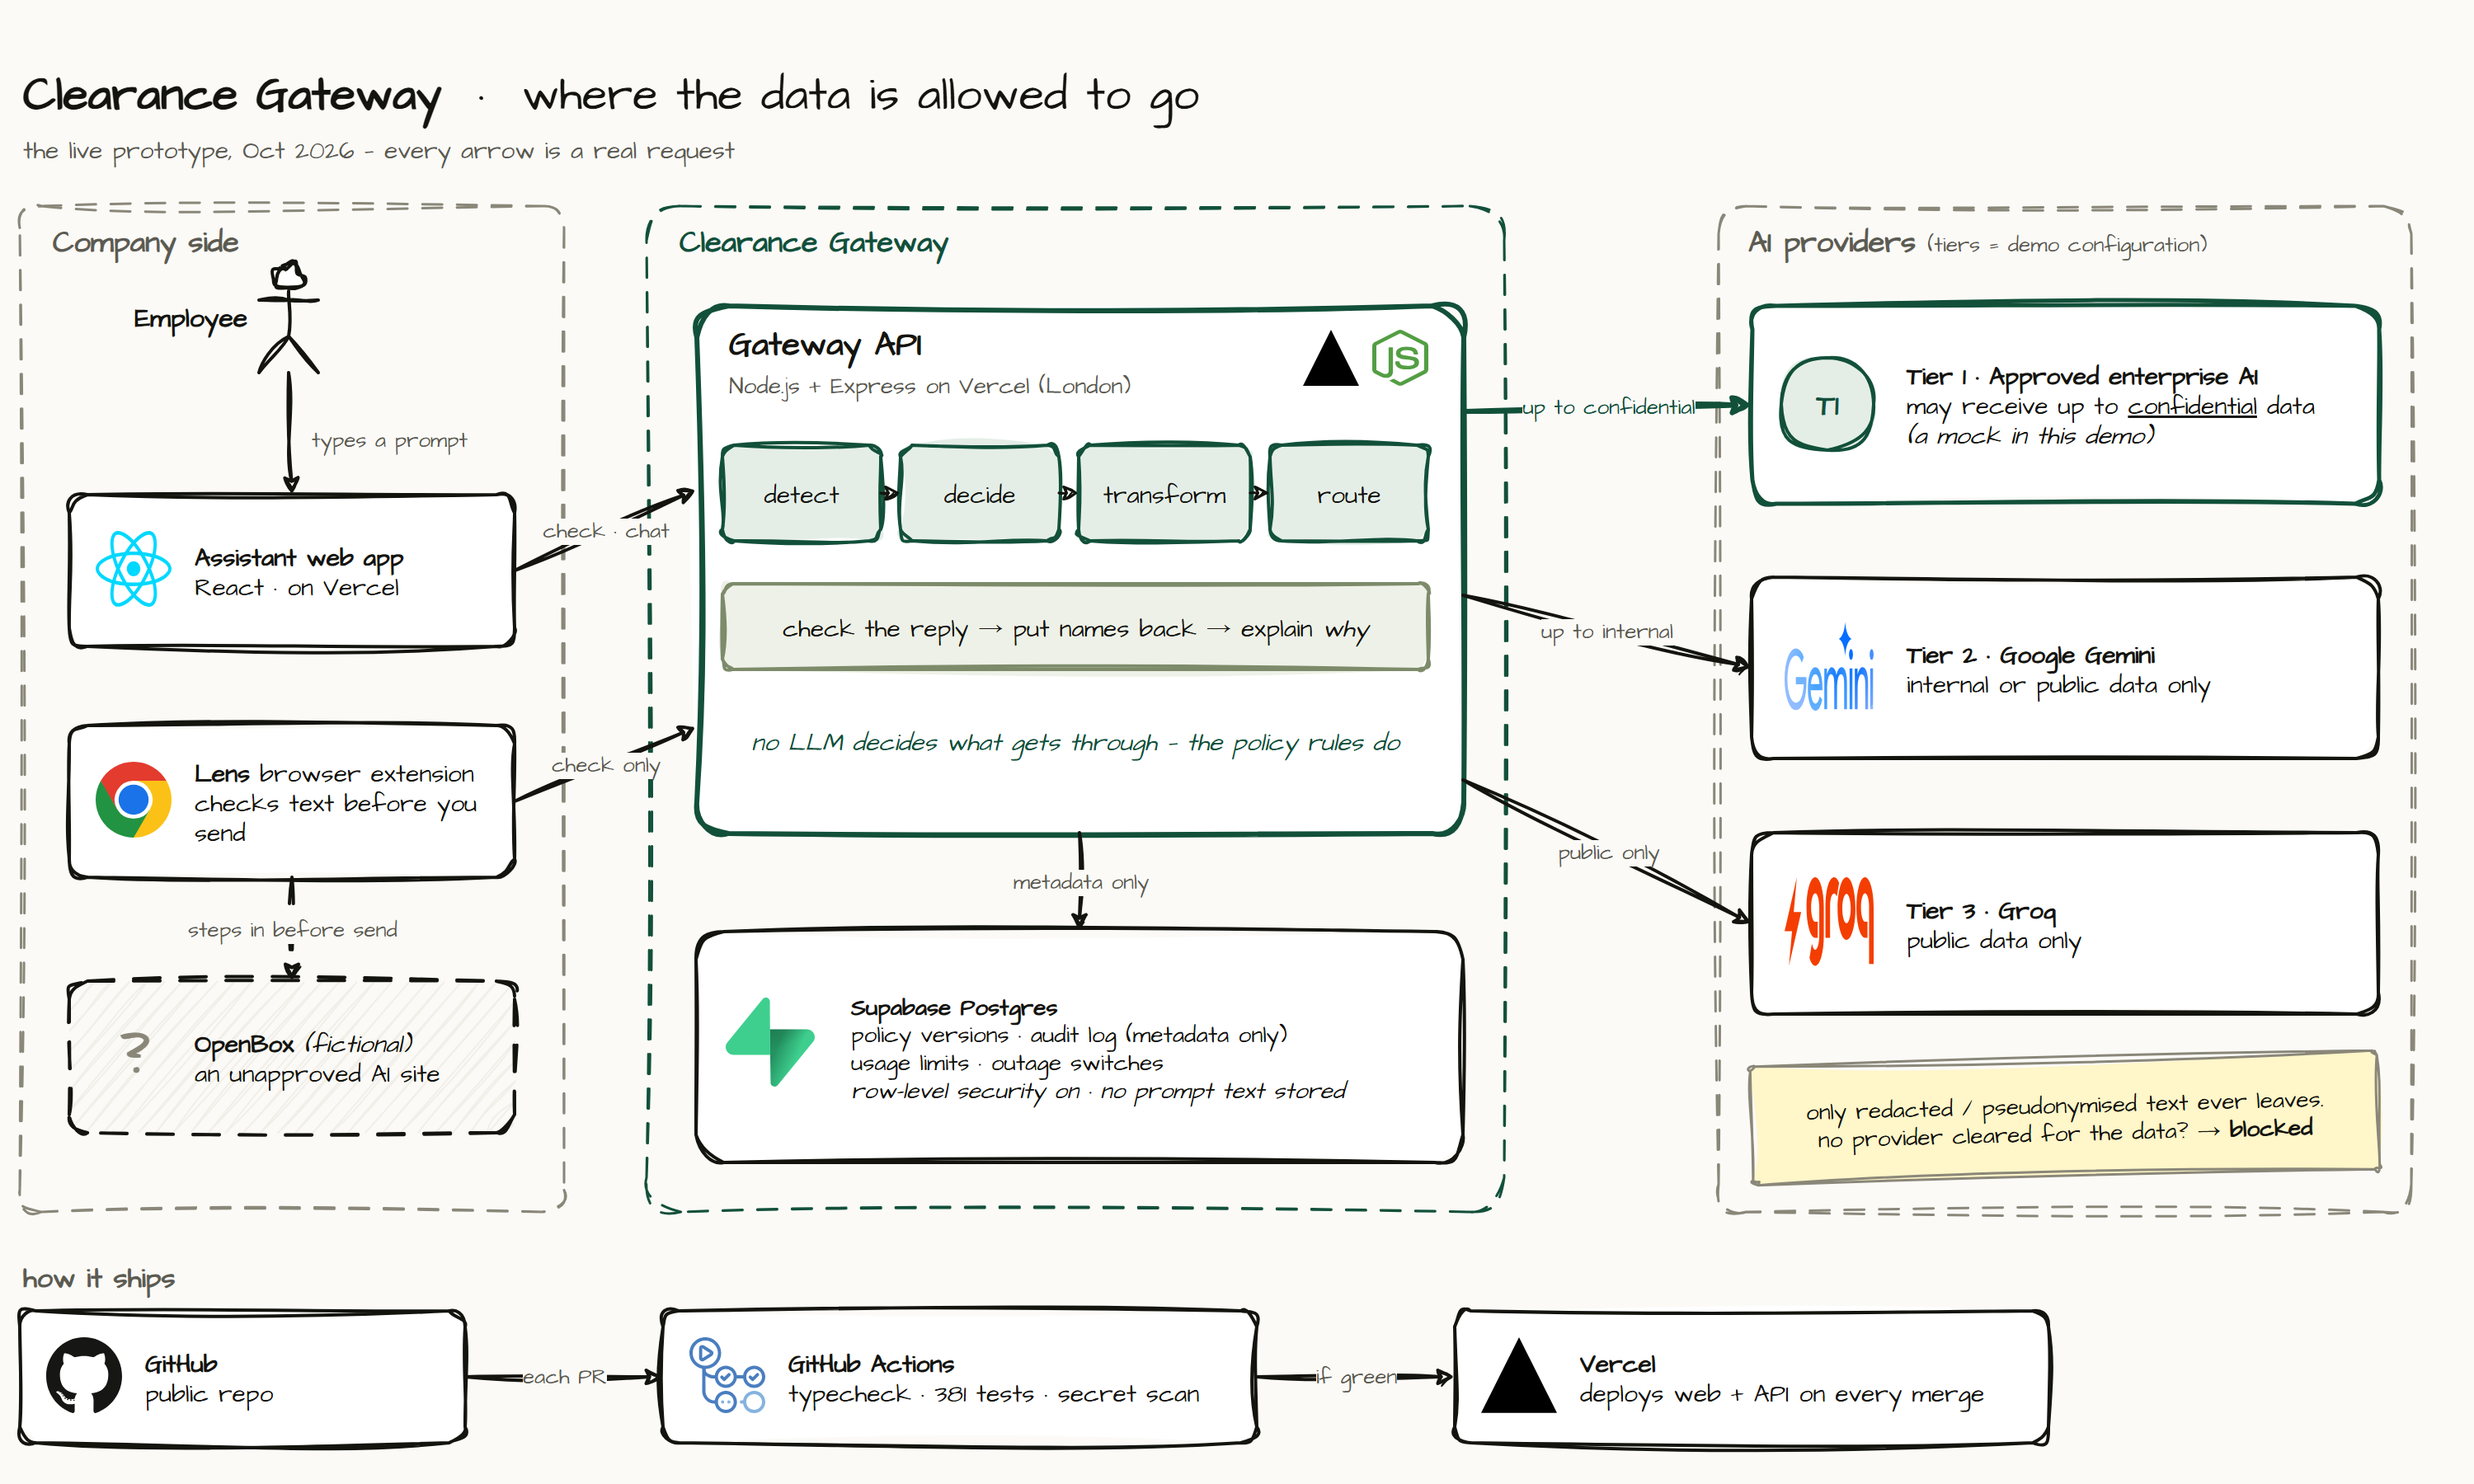
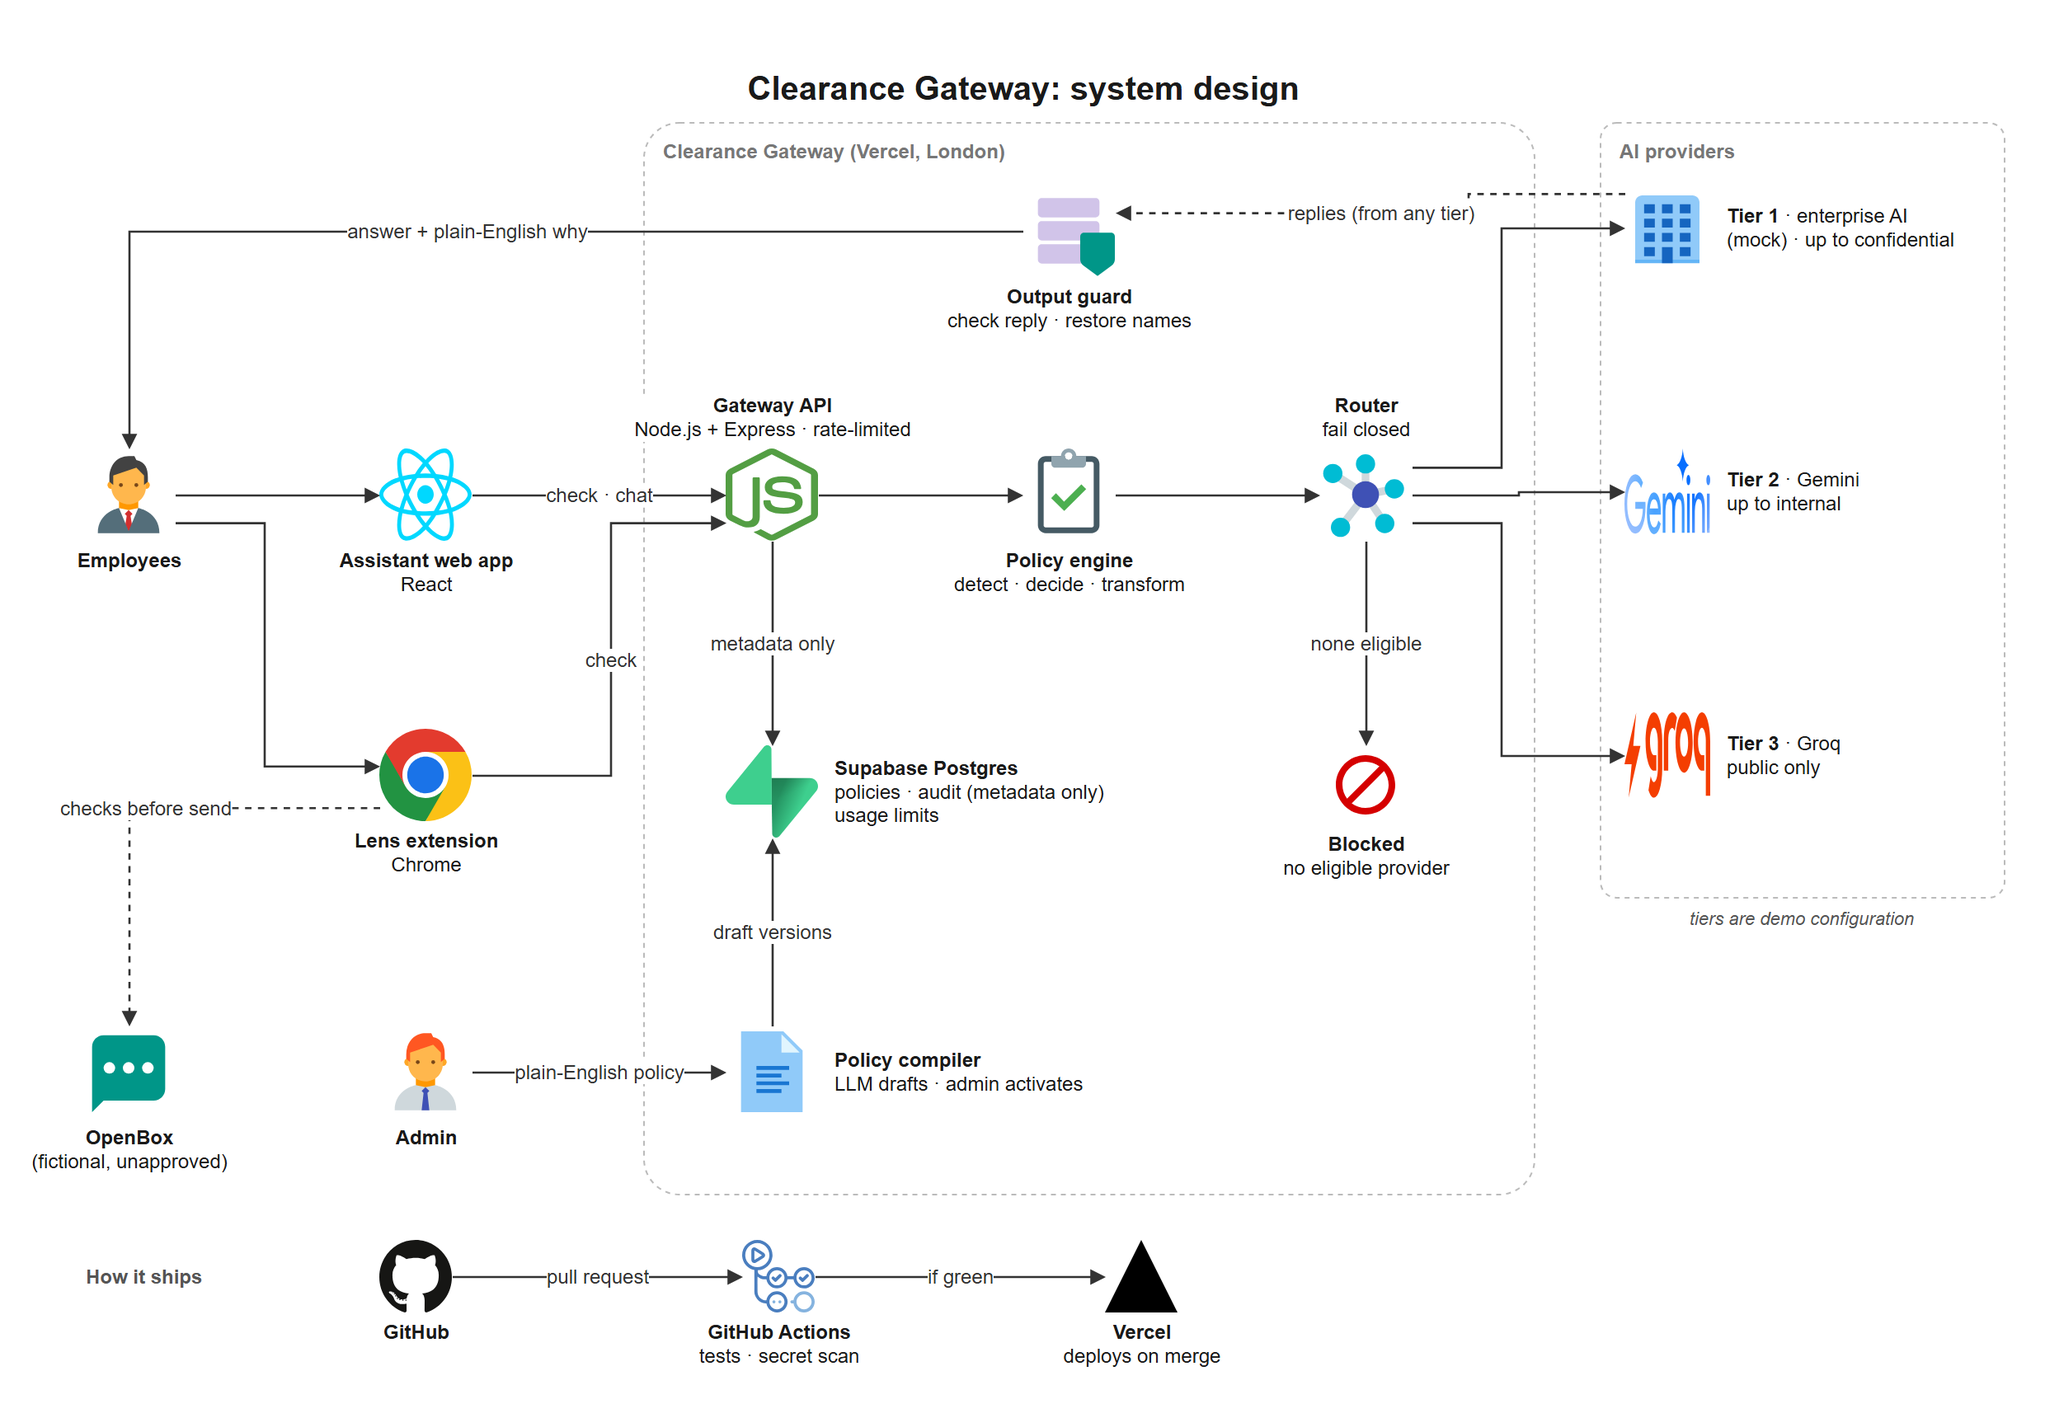
docs: restyle diagrams as plain draw.io flowcharts and system design, with open-in-draw.io links

diff --git a/docs/diagrams/README.md b/docs/diagrams/README.md
@@ -1,12 +1,12 @@
 # Diagrams
 
-Hand-drawn-style diagrams (draw.io "sketch" style, Architects Daughter font, FinMe colours). Open any `.drawio` file at https://app.diagrams.net (File → Open from → Device) or in the draw.io desktop app to edit it. The PNGs are exports at 2× scale.
+Plain, standard diagrams made with [draw.io](https://www.drawio.com). Click **Edit** to open one in the draw.io editor straight from this repository, or **View** for a read-only page. The `.drawio` files in this folder can also be opened with File → Open from → Device. The PNGs are 2× exports.
 
-| File | Shows |
-|---|---|
-| `architecture.drawio` / `.png` | The parts of the live prototype and where data is allowed to go |
-| `prompt-flow.drawio` / `.png` | What happens to one prompt, from Send to answer (no LLM in the path) |
-| `policy-lifecycle.drawio` / `.png` | How a plain-English policy becomes live rules, with the human review and the policy floor |
-| *(Collins)* system map | The problem's causal loops: Collins's own analysis, to be added |
+| Diagram | What it shows | Open | PNG |
+|---|---|---|---|
+| `architecture` | System design: the parts of the live prototype and where data is allowed to go | [Edit](https://app.diagrams.net/#Uhttps%3A%2F%2Fraw.githubusercontent.com%2Fshibambocollins%2Fclearance-gateway%2Fmain%2Fdocs%2Fdiagrams%2Farchitecture.drawio) · [View](https://viewer.diagrams.net/?url=https%3A%2F%2Fraw.githubusercontent.com%2Fshibambocollins%2Fclearance-gateway%2Fmain%2Fdocs%2Fdiagrams%2Farchitecture.drawio) | [architecture.png](architecture.png) |
+| `prompt-flow` | Flowchart: what happens to one prompt, from Send to answer (no LLM in the path) | [Edit](https://app.diagrams.net/#Uhttps%3A%2F%2Fraw.githubusercontent.com%2Fshibambocollins%2Fclearance-gateway%2Fmain%2Fdocs%2Fdiagrams%2Fprompt-flow.drawio) · [View](https://viewer.diagrams.net/?url=https%3A%2F%2Fraw.githubusercontent.com%2Fshibambocollins%2Fclearance-gateway%2Fmain%2Fdocs%2Fdiagrams%2Fprompt-flow.drawio) | [prompt-flow.png](prompt-flow.png) |
+| `policy-lifecycle` | Flowchart: how a plain-English policy becomes live rules, with human review and the policy floor | [Edit](https://app.diagrams.net/#Uhttps%3A%2F%2Fraw.githubusercontent.com%2Fshibambocollins%2Fclearance-gateway%2Fmain%2Fdocs%2Fdiagrams%2Fpolicy-lifecycle.drawio) · [View](https://viewer.diagrams.net/?url=https%3A%2F%2Fraw.githubusercontent.com%2Fshibambocollins%2Fclearance-gateway%2Fmain%2Fdocs%2Fdiagrams%2Fpolicy-lifecycle.drawio) | [policy-lifecycle.png](policy-lifecycle.png) |
+| *(Collins)* system map | The problem's causal loops: Collins's own analysis, to be added | | |
 
-Service logos come from the [SVG Logos](https://github.com/gilbarbara/logos) collection (CC0) via [Iconify](https://iconify.design). Trademarks belong to their owners. They identify the services the prototype uses and imply no endorsement. The approved enterprise provider is a mock and OpenBox is fictional, so neither has a logo. Provider tiers are demo configuration, not claims about any vendor's data handling.
+Service logos come from the [SVG Logos](https://github.com/gilbarbara/logos) collection (CC0). Generic icons come from [Flat Color Icons](https://github.com/icons8/flat-color-icons) (MIT). Both are via [Iconify](https://iconify.design). Trademarks belong to their owners; they identify the services the prototype uses and imply no endorsement. The approved enterprise provider is a mock and OpenBox is fictional, so neither has a vendor logo. Provider tiers are demo configuration, not claims about any vendor's data handling.

diff --git a/docs/decisions.md b/docs/decisions.md
@@ -67,3 +67,4 @@ Every non-trivial technical choice: the decision, the alternatives, why, and who
 | D-061 | 2026-10-29 | **Policy floor:** `POST /api/policy/:id/activate` refuses (409) any version whose decision diff against the seed baseline has a looser cell, a lowered level or a removed term. Stricter versions activate normally. On by default; `POLICY_FLOOR=off` disables it. | Rely on admin review only. | The demo admin code is public, so anyone could otherwise activate an "allow everything" policy and silently switch protection off for every visitor. A floor that admins can tighten but never undercut is also a useful production idea (e.g. a regulator- or CISO-set minimum). | Claude Code |
 | D-062 | 2026-10-29 | Security hardening from the review (`docs/security.md`): API headers (`Cache-Control: no-store`, `nosniff`, `X-Frame-Options: DENY`, `Referrer-Policy: no-referrer`, `CSP: default-src 'none'`); web headers in `apps/web/vercel.json` (CSP with scripts from self only, HSTS, `nosniff`, `DENY`, `Referrer-Policy`, `Permissions-Policy`); the policy compiler gets its own budget of 10 per visitor per day and 100 in total, failing closed. | helmet (extra dependency); no compile limit. | Responses can contain the redacted text a user is about to send, so they must not be cached. The compile endpoint spends real LLM quota behind a public admin code. | Claude Code |
 | D-063 | 2026-10-29 | Three technical diagrams (architecture, prompt flow, policy lifecycle) as editable `.drawio` files plus 2× PNG exports in `docs/diagrams/`. Style: draw.io's sketch mode with a handwriting font, the FinMe colours and a few slightly tilted sticky notes, so they read like a whiteboard drawing rather than generated art. Real service logos come from the SVG Logos set (CC0) via Iconify, embedded in the files. The problem system map is left for Collins (CLAUDE.md: the analysis must be his). | Glossy generated diagrams; diagrams for every UML type (ERD, class, use case). | Judges read four clear diagrams faster than many. Each one maps to a rubric criterion: architecture → technical solution, prompt flow → systems thinking and security, lifecycle → innovation. Rendered and checked with the draw.io viewer in headless Chrome. | Collins (asked), Claude Code (built) |
+| D-064 | 2026-10-29 | Diagrams restyled to the plain, standard draw.io look Collins asked for (white background, Helvetica, grey outlines, rounded Start/End terminals, rectangles for steps, diamonds for decisions, right-angled arrows with Yes/No labels, an "A" connector to split the flowchart into two columns, icon nodes with labels underneath). Replaces the sketch-style version in D-063. The "Edit" and "View" links open the `.drawio` files from the repository's `main` branch in draw.io. | Keep the hand-drawn style. | Collins preferred basic diagrams like the examples he shared. | Collins (asked), Claude Code (built) |

diff --git a/README.md b/README.md
@@ -75,7 +75,7 @@ Admin ─► policy text ─► LLM compiler (draft, schema-validated) ─► de
 
 ![What happens to one prompt: detect, decide, transform, route, fail closed, check the reply](docs/diagrams/prompt-flow.png)
 
-More diagrams, including the policy lifecycle, are in [`docs/diagrams/`](docs/diagrams/).
+More diagrams, including the policy lifecycle, and links to open each one in draw.io are in [`docs/diagrams/`](docs/diagrams/).
 
 The components are:
 - **Compiler:** policy text → rules
